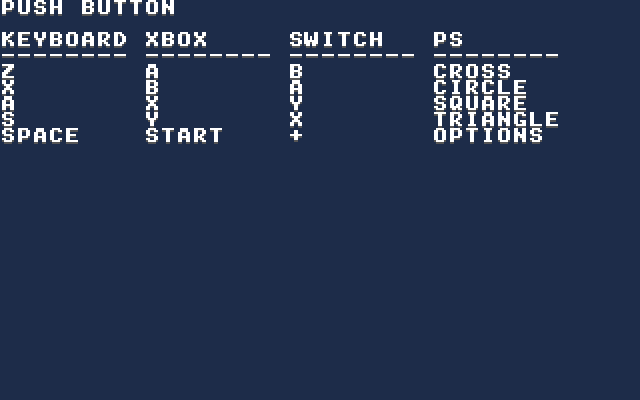
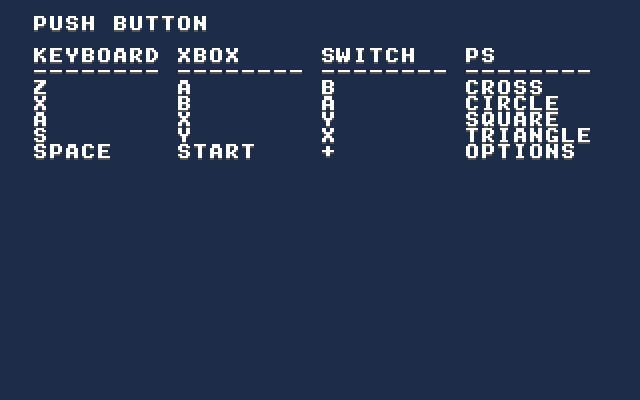
adjust text position

Changed region(s): [[0.0, 0.0, 0.9375, 0.42]]

diff --git a/example/04_key/program.c b/example/04_key/program.c
@@ -10,7 +10,7 @@ enum KeyID {
 
 static void put(enum KeyID id)
 {
-    static int pos = 4;
+    static int pos = 5;
     VGS_IO_KEY_TYPE = VGS_KEY_ID_KEYBOARD;
     for (int i = 0; i < 4; i++) {
         VGS_IO_KEY_TYPE = i + 1;
@@ -22,7 +22,7 @@ static void put(enum KeyID id)
             case KeyID_Y: buttonId = vgs_button_id_y(); break;
             case KeyID_START: buttonId = vgs_button_id_start(); break;
         }
-        vgs_print_bg(0, i * 9, pos, 0, vgs_button_name(buttonId));
+        vgs_print_bg(0, 2 + i * 9, pos, 0, vgs_button_name(buttonId));
     }
     pos++;
     if (26 <= pos) {
@@ -41,9 +41,9 @@ int main(int argc, char* argv[])
     } prev;
     vgs_memset(&prev, 0, sizeof(prev));
 
-    vgs_print_bg(0, 0, 0, 0, "PUSH BUTTON");
-    vgs_print_bg(0, 0, 2, 0, "KEYBOARD XBOX     SWITCH   PS");
-    vgs_print_bg(0, 0, 3, 0, "-------- -------- -------- --------");
+    vgs_print_bg(0, 2, 1, 0, "PUSH BUTTON");
+    vgs_print_bg(0, 2, 3, 0, "KEYBOARD XBOX     SWITCH   PS");
+    vgs_print_bg(0, 2, 4, 0, "-------- -------- -------- --------");
 
     while (TRUE) {
         vgs_vsync();
